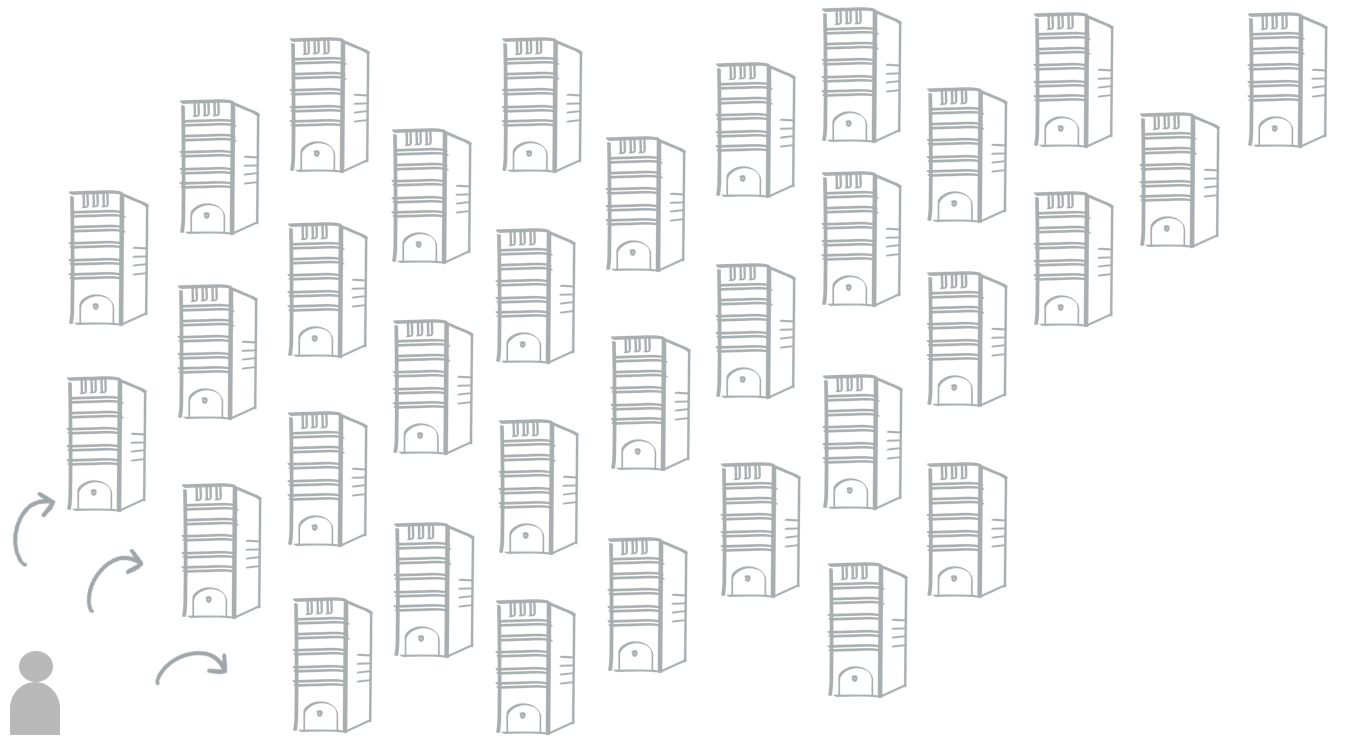
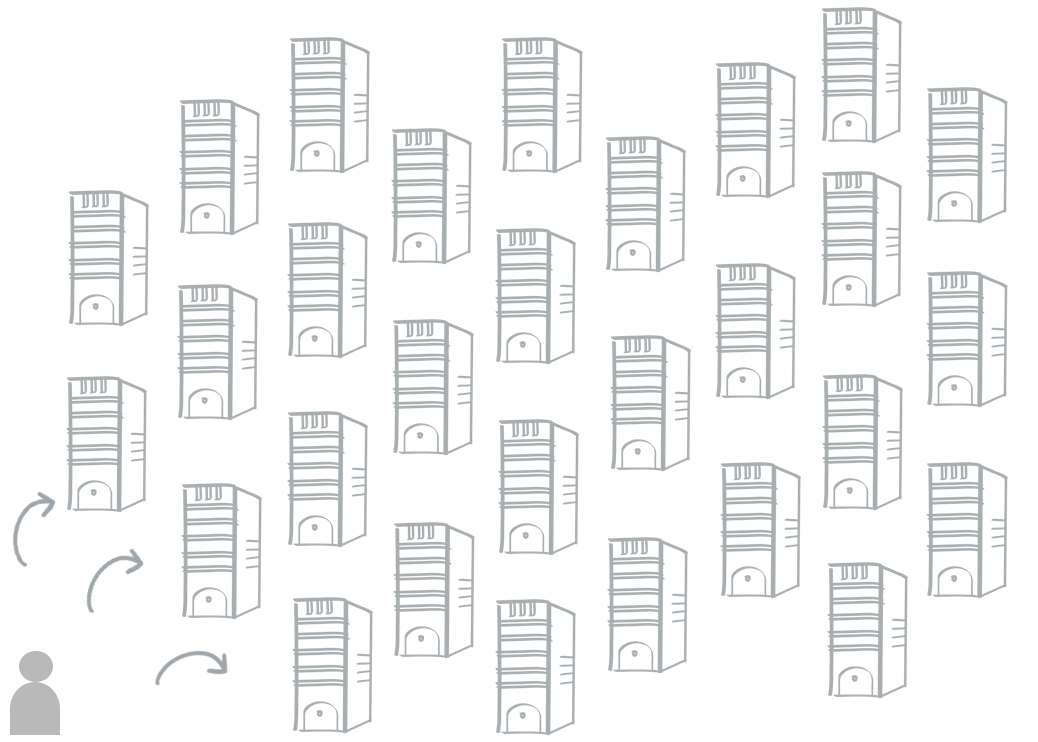
+content & style revisions

Changed region(s): [[0.0, 0.0, 0.9865, 0.9919], [0.8015, 0.6199, 0.9865, 0.9609], [0.0, 0.8679, 0.0617, 0.9919]]

diff --git a/index.html b/index.html
@@ -21,8 +21,6 @@
   <div class="top-bar-left">
     <ul class="dropdown menu" data-dropdown-menu>
       <li class="menu-text"><a href="index.html"></a></li>
-      <li class="menu-text"><a href="index.html">v1</a></li>
-      <li class="menu-text"><a href="v2.html">v2</a></li>  
     </ul>
   </div>
 
@@ -39,7 +37,7 @@
 
 <section class = "section-bkg">
   <div class="large-12 columns"> 
-    <img = src="img/cpp_faded_snap04_grey.png">
+    <img = src="img/cpp_grey_london_between.png">
   </div>
 </section>
 
@@ -51,9 +49,8 @@
       <br>
       <h2 class = "center"> A powerful open telemetry framework </h2>
       <br>
-      <h4 class = "subheader"> We believe the next generation of cloud computing within data centers will achieve higher density, scale, and agility in a highly automated manner. 
-        We call this vision Intelligent Resource Orchestration (IRO) and it all starts with valuable, accurate, and consumable data from the hardware and software.
-        We began our journey asking ourselves “What would an operational framework focused on making the consumption of telemetry much easier look like?”
+      <h4 class = "subheader"> 
+        We have a vision for the next generation of cloud computing we call Intelligent Resource Orchestration (IRO) that achieves higher density, scale, and agility in a highly automated manner. Getting valuable, accurate, and consumable data from the hardware and software is the first step towards IRO, so we began asking ourselves “What would an operational framework focused on making the consumption of telemetry much easier look like?”
         Learn more about <a href="http://nickapedia.com/2015/12/02/what-if-collecting-data-center-telemetry-was-a-snap/">our story</a>.</h4>
     </div>
   </div>
@@ -72,20 +69,22 @@
 
     
     <div class = "row">
-    <div class="large-12 columns center">
-    <h3 class = "center"> Snap is designed to:</h3>
+      <div class="large-1 columns"><p></p></div>
+      <div class="large-10 columns">
+        <h3 class = ""> Snap is designed to:</h3>
 
-      <h4 class = "center subheader">
-        <ul class = "no-bullet"> 
-          <li> Empower systems to expose a consistent set of telemetry data </li>
-          <li> Simplify telemetry ingestion across ubiquitous storage systems </li>
-          <li> Improve the deployment model, packaging and flexibility for collecting telemetry </li>
-          <li> Allow flexible processing of telemetry data on agent (e.g. machine learning) </li>
-          <li> Provide powerful clustered control of telemetry workflows across small or large clusters </li>
-          <br>
-      </ul></h4>
+        <h4 class = "subheader">
+          <ul class = "disc"> 
+            <li> Empower systems to expose a consistent set of telemetry data </li>
+            <li> Simplify telemetry ingestion across ubiquitous storage systems </li>
+            <li> Improve the deployment model, packaging and flexibility for collecting telemetry </li>
+            <li> Allow flexible processing of telemetry data on agent </li>
+            <li> Provide powerful clustered control of telemetry workflows across small or large clusters </li>
+            <br>
+        </ul></h4>
+      </div>
+      <div class="large-1 columns"><p></p></div>
     </div>
-  </div>
 
 </section> <!-- end overview-->
 <hr />
@@ -96,11 +95,11 @@
 
   <div class="row">
     <br>
-      <div class="large-6 columns">
+      <div class="large-10 columns">
         <h3>Simplified Workflow</h3>
-          <h4 class = "subheader">Achieve a single extensible flow from raw information to valuable automation. Start with data collection at all layers, then transform the data with basic filtering or add information for context, and finish by publishing the processed data to one or more platforms.</h4>
+          <h4 class = "subheader">Achieve a single extensible flow starting with data collection at all layers, then transforming the data with basic filtering or adding information for context, and finishing with publishing the processed data to one or more platforms.</h4>
       </div>
-      <div class = "large-6 columns"></div>
+      <div class = "large-2 columns"></div>
   </div>
 
   <div class = "row">
@@ -124,10 +123,10 @@
 
 <div class="row">
   <br>
-    <div class = "large-6 columns"></div>
-      <div class="large-6 columns text-right">
+    <div class = "large-4 columns"></div>
+      <div class="large-8 columns text-right">
         <h3>Plugin Architecture </h3>
-          <h4 class = "subheader">Snap is designed to collect, process, and publish data with a pluggable architecture. Users can mix and match functionality based on need using three types of plugins (collectors, processors, and publishers). </h4>
+          <h4 class = "subheader">Allows users to mix and match functionality based on need using three types of plugins: collectors, processors, and publishers. </h4>
       </div>
 </div>
 <br>
@@ -136,13 +135,12 @@
 
     <div class="large-4 columns">
       <div class = "row">
-        <div class = "large-2 columns"> <br> </div>
+        <div class = "large-4 columns"> <br> </div>
           <div class = "large-8 columns">
+            <h4 class = "center subheader"> Collect</h4>
           <img = src="img/collect.png">
           <h4 class = "center"></h4>
-          <p class = "center"> Collect telemetry data once via plugins </p>
           </div> 
-        <div class = "large-2 columns"> <br> </div>
       </div>
     </div>
 
@@ -150,9 +148,10 @@
       <div class = "row">
         <div class = "large-2 columns"> <br> </div>
           <div class = "large-8 columns">
+            <h4 class = "center subheader">Process</h4>
           <img = src="img/process.png">
           <h4 class = "center"> </h4>
-          <p class = "center">Filter, alter, or append metadata as many times as you need via plugins</p>
+          
           </div>
         <div class = "large-2 columns"> <br> </div>
       </div>
@@ -160,16 +159,65 @@
 
     <div class="large-4 columns">
       <div class = "row">
-        <div class = "large-2 columns"> <br> </div>
           <div class = "large-8 columns">
+            <h4 class = "center subheader">Publish</h4>
           <img = src="img/publish.png">
           <h4 class = "center"></h4>
-          <p class = "center">Publish data as many times as you need via plugins</p>
+          
           </div>
-        <div class = "large-2 columns"> <br> </div>
+        <div class = "large-4 columns"> <br> </div>
       </div>
     </div>
   </div>
+
+<br><br>
+
+
+
+   
+    <div class = "row">
+      <div class="large-10 columns">
+        <h4 class = ""> Collect telemetry data once via plugins for:</h4>
+
+        <h5 class = "subheader">
+          <ul class = "disc"> 
+            <li> Bare metal, including Intel specific platform metrics (Node, DCM, NIC, SMARTS, Ethtool, OSv)</li>
+            <li> Operating Environments and existing telemetry (Docker, libvirt, psutil, Collectd, Heka)</li>
+            <li> Application services and adjacencies (Ceph, HAProxy, Etcd, Facter, MySQL, Apache)</li>
+            <li> Priority services and other third party plugins </li>
+        </ul></h5>
+      </div>
+    </div>
+
+    <div class = "row">
+      <div class="large-10 columns">
+        <h4 class = ""> Filter, alter or append metadata as many times as you need via plugins for:</h4>
+
+        <h5 class = "subheader">
+          <ul class = "disc"> 
+            <li> Filtering (Moving Averages)</li>
+            <li> Normalization </li>
+            <li> Encryption for all or part of the data set</li>
+            <li> Injection of remote requires for tokens </li>
+        </ul></h5>
+      </div>
+    </div>
+
+
+    <div class = "row">
+      <div class="large-10 columns">
+        <h4 class = ""> Publish data as many times as you need via plugins for:</h4>
+
+        <h5 class = "subheader">
+          <ul class = "disc"> 
+            <li> Dashboard Tools  (Graphite, Grafana, Riemann)</li>
+            <li> Queues and Logs (RabbitMQ, Kafka, File)</li>
+            <li> Databases (PostgresSQL, InfluexDB, OpenTSDB, MySQL, HANA)</li>
+        </ul></h5>
+      </div>
+    </div>
+
+
 </section> <!-- end plugins-->
 <hr />
 
@@ -180,10 +228,10 @@
 <section class = "dynamic_updates">
   <div class="row">
     <br>
-      <div class="large-8 columns text-left">
+      <div class="large-9 columns text-left">
         <h3>Dynamic Control</h3>
           <h4 class = "subheader"> Dynamic plugin operations means loading, updating, and unloading plugins without restarting snap or extra configuration management.
-While dynamic updates ensures simple and secure bug fixes, security patching, and improved accuracy in production. </h4>
+Dynamic updates ensures simple and secure bug fixes, security patching, and improved accuracy in production. </h4>
       </div>
       <div class = "large-3 columns"> <img = src="img/snap_catalog.png"></div>
   </div>
@@ -197,40 +245,36 @@ While dynamic updates ensures simple and secure bug fixes, security patching, an
 
   <div class="row">
     <br>
-      <div class = "large-6 columns"></div>
-      <div class="large-6 columns text-right">
+      <div class = "large-5 columns"> <img = src="img/scale.png"></div>
+      <div class="large-7 columns text-right">
         <h3>Scale with Ease </h3>
-          <h4 class = "subheader"> Use the snap tribe clustering feature to simplify cluster configuration management and scale with less operational cost. </h4>
+          <h4 class = "subheader"> The clustering feature tribe simplifies cluster configuration management and enables scale with less operational cost. </h4>
       </div>
 
   </div>
 
   <div class = "row">
     <div class="large-7 columns">
-          <img = src="img/scale.png">
+
     </div>
   </div>
 
 </section> <!-- end scale-->
-<br><hr />
+<br><br>
 
 
 <section class = "section-links">
 
-<div class = "row">
 
-  <div class="large-12 columns center">
-        <br>
-        <p> Get Started <a href="https://github.com/intelsdi-x/snap#getting-started">here</a> <p>
-        <p> See <a href ="https://github.com/intelsdi-x/snap#documentation">Documentation</a> <p>
-        <p> View full list of <a href="https://github.com/intelsdi-x/snap/blob/master/docs/PLUGIN_CATALOG.md">plugins</a> <p>
-        <p> Contact us on <a href="https://gitter.im/intelsdi-x/snap">Gitter</a> <p>        
-  </div>
+      <div class = "row">
+      <div class="large-12 columns center">
+        <a class="button" href="https://github.com/intelsdi-x/snap#getting-started">get started with snap</a>
+      </div>
+      </div>
 
-</div>
 
 </section><!--end section 4-->
-
+<br>
 
 <div class = "row">
     <div class="large-5 columns"><p></p></div>
@@ -252,7 +296,9 @@ While dynamic updates ensures simple and secure bug fixes, security patching, an
       <p class="logo hide-for-small-only">snap</p> 
       <p class="footer-links">     
       <a href="https://github.com/intelsdi-x/snap"><i class="fa fa-github-square"></i></a>
-      <a href="https://gitter.im/intelsdi-x/snap">Gitter</a>
+      <a href="https://gitter.im/intelsdi-x/snap">gitter</a>
+      <a href="https://github.com/intelsdi-x/snap/blob/master/docs/PLUGIN_CATALOG.md">plugin catalog</a>
+      <a href ="https://github.com/intelsdi-x/snap#documentation">documentation</a>
 
       </p>
       
@@ -269,6 +315,24 @@ While dynamic updates ensures simple and secure bug fixes, security patching, an
 .center {
   text-align: center;
 }
+
+
+.button {
+  color: transparent;
+  font-size: 2rem;
+  letter-spacing: 5px;
+  border: 4px solid transparent;
+  border-image: linear-gradient(45deg, #737373, #737373);
+  border-image-slice: 1;
+  background: linear-gradient(45deg, #737373, #737373);
+  -webkit-background-clip: text;
+  text-fill-color: transparent;
+  transition: all 0.2s ease; }
+  .button:hover {
+    border-image: linear-gradient(45deg, #737373, #737373);
+    background: linear-gradient(45deg, #737373, #737373); 
+}
+
 
 
 .top-bar {
